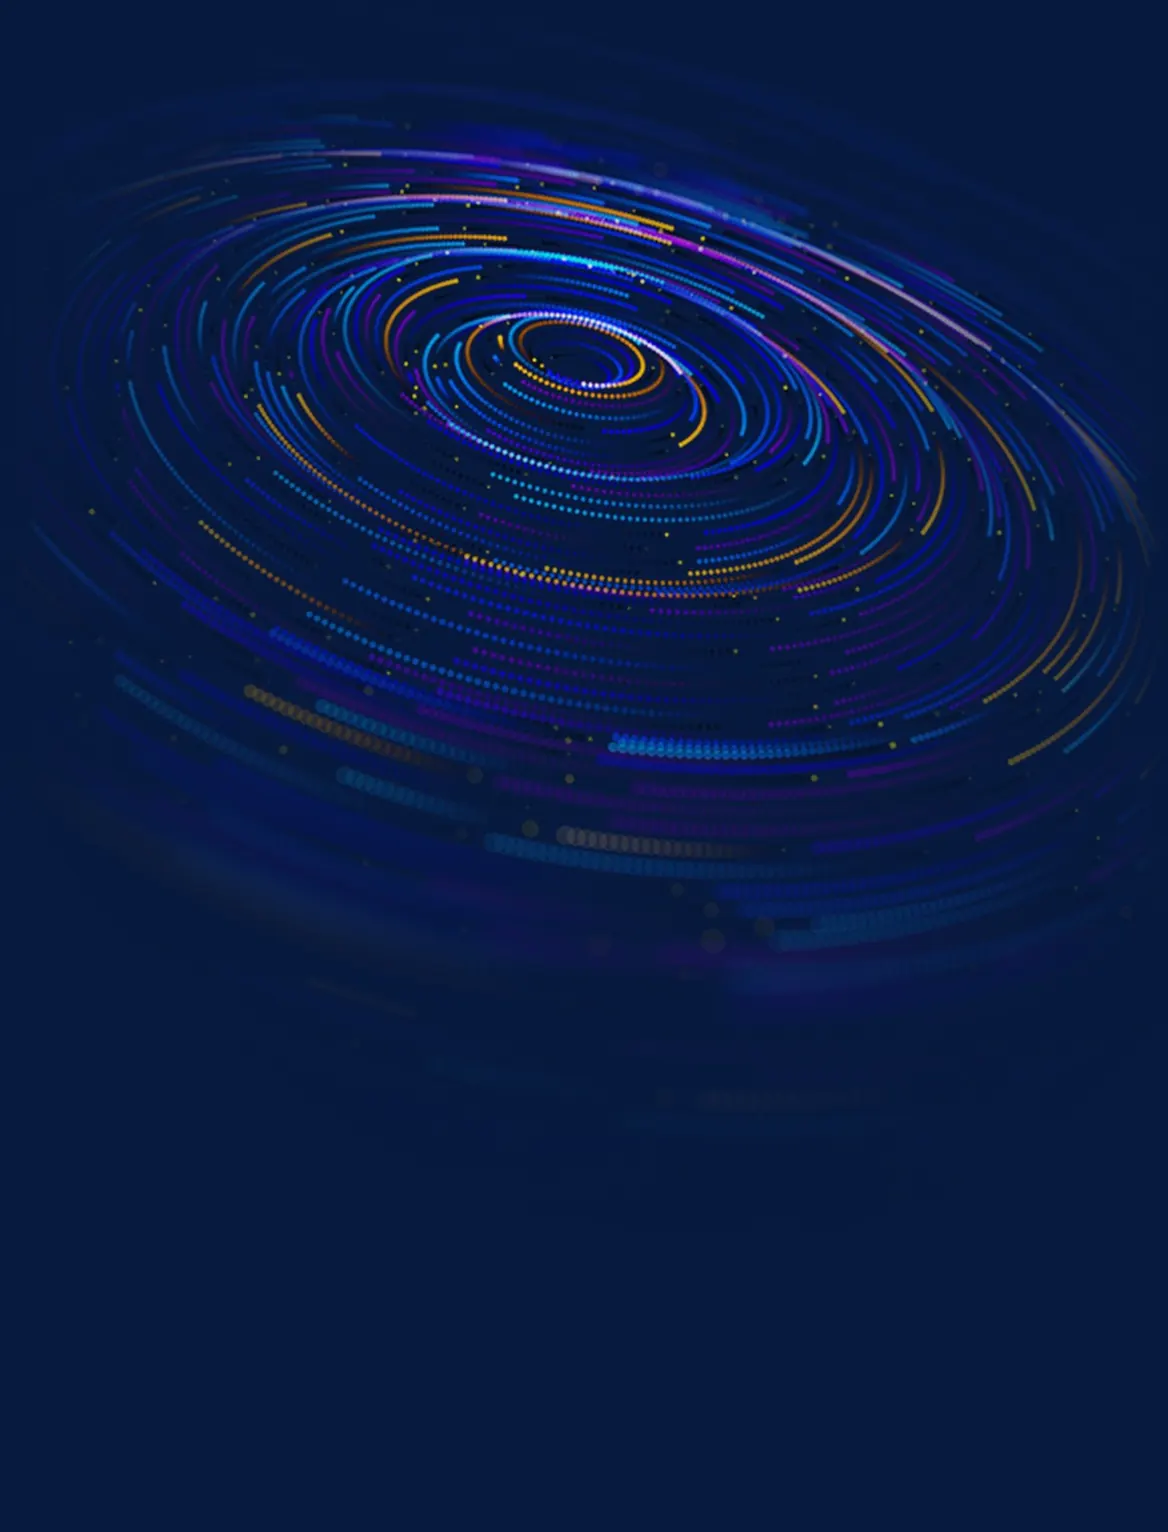
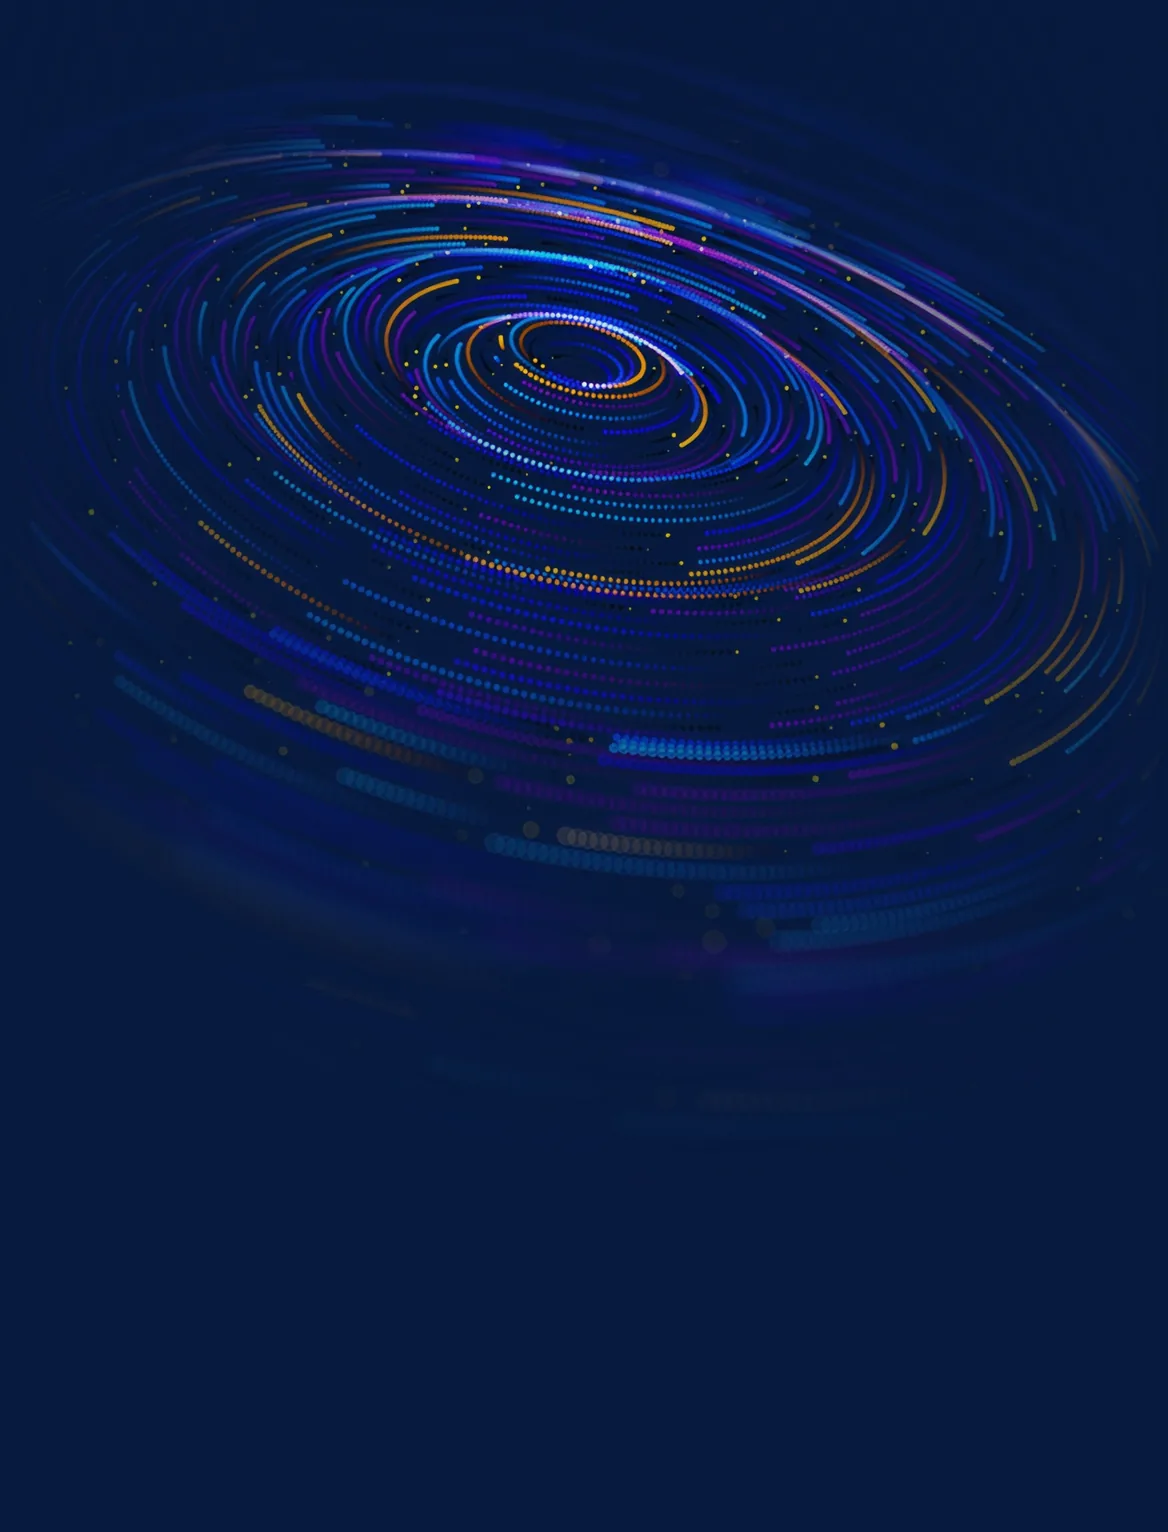
Event landing: hero uses the design lead's high-resolution key visual
New Figma image (3125×4096) with the radial vignette, rendered from Figma
at 1× and 2× of its 1168×1532 box: kv-hero-720/1168/2336.webp
(34/73/158 KB); srcset picks 2336 on retina at 1440.

Claude-Session: https://claude.ai/code/session_01TdowweNaYjcCzpR61dPRNr

diff --git a/implementations/b2r-event-landing/src/event-landing/components/KeyVisual.tsx b/implementations/b2r-event-landing/src/event-landing/components/KeyVisual.tsx
@@ -5,11 +5,12 @@ import { BASE } from '../lib/base';
 
 const SRC = `${BASE}/landing/dar-madar-business`;
 
-// variant "hero": the desktop hero version with the design lead's radial vignette baked in
-// (Figma: hero › kv-swirl, radial gradient transparent → campaign.bg over the image, 2026-10-27).
+// variant "hero": the desktop hero visual exactly as in Figma (hero › kv-swirl): the design lead's
+// high-resolution master (3125×4096) with its radial vignette (transparent → campaign.bg), rendered
+// from Figma at 1× and 2× of its 1168×1532 box (2026-10-27).
 const VARIANTS = {
   swirl: { file: 'kv-swirl', sizes: [720, 1152], w: 1158, h: 1518 },
-  hero: { file: 'kv-hero', sizes: [720, 1168], w: 1168, h: 1532 },
+  hero: { file: 'kv-hero', sizes: [720, 1168, 2336], w: 1168, h: 1532 },
 } as const;
 
 export function KeyVisual({ className = '', priority = false, rotate = 0, variant = 'swirl' }: { className?: string; priority?: boolean; rotate?: number; variant?: keyof typeof VARIANTS }) {
@@ -18,7 +19,7 @@ export function KeyVisual({ className = '', priority = false, rotate = 0, varian
     // eslint-disable-next-line @next/next/no-img-element
     <img
       src={`${SRC}/${v.file}-${v.sizes[1]}.webp`}
-      srcSet={`${SRC}/${v.file}-${v.sizes[0]}.webp ${v.sizes[0]}w, ${SRC}/${v.file}-${v.sizes[1]}.webp ${v.sizes[1]}w`}
+      srcSet={v.sizes.map(w => `${SRC}/${v.file}-${w}.webp ${w}w`).join(', ')}
       sizes="(min-width: 1024px) 80vw, 100vw"
       width={v.w}
       height={v.h}

diff --git a/designs/b2r-event-landing.md b/designs/b2r-event-landing.md
@@ -105,7 +105,7 @@ Desktop uses the same states inside the form column.
 | Icons follow the mockup in the meta row and the details list (after the text); in inputs they stay at the start | Mockup fidelity; the input anatomy comes from the library |
 | Decorative motion (KV drift, orbit glow, entrance) only without `prefers-reduced-motion` | WCAG 2.3.3 |
 | Key visual cut from the brand file, upscaled 2×, background matched to `campaign.bg`, served as WebP 720/1152 (48/97 KB) | Research › performance is UX (Tabriz, PLP) |
-| Desktop hero visual: larger (1168 wide, centre 430 · 547, 28°) with a radial vignette, transparent → `campaign.bg` #071A3E, set by the design lead in Figma (2026-10-27). Web bakes the vignette into `kv-hero-*.webp` (27/56 KB) at the same box. The gradient stops stay raw hex: binding a variable to a gradient stop forces alpha to 1 in Figma, which would hide the image | Design lead edit; Figma limitation (per-stop alpha can't be token-bound) |
+| Desktop hero visual: larger (1168 wide, centre 430 · 547, 28°) with a radial vignette, transparent → `campaign.bg` #071A3E, set by the design lead in Figma (2026-10-27). Web uses the design lead's high-resolution image (3125 × 4096) rendered from Figma with the vignette, `kv-hero-720/1168/2336.webp` (34/73/158 KB; 2336 for retina), at the same box. The gradient stops stay raw hex: binding a variable to a gradient stop forces alpha to 1 in Figma, which would hide the image | Design lead edit; Figma limitation (per-stop alpha can't be token-bound) |
 | `noindex` on the page | Invite-only event |
 
 ## Open questions
